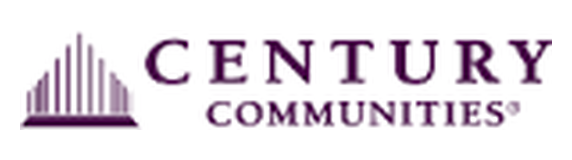
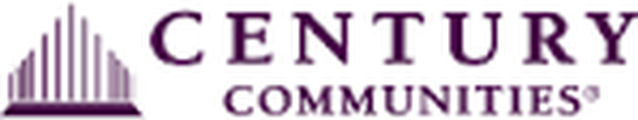
Add files via upload

diff --git a/index.html b/index.html
@@ -255,9 +255,10 @@
     }
 
     .client-logo {
-      width: 100%;
-      height: 56px;
-      max-width: 148px;
+      height: auto;
+      width: auto;
+      max-height: 48px;
+      max-width: 90%;
       object-fit: contain;
       object-position: center;
       filter: none;
